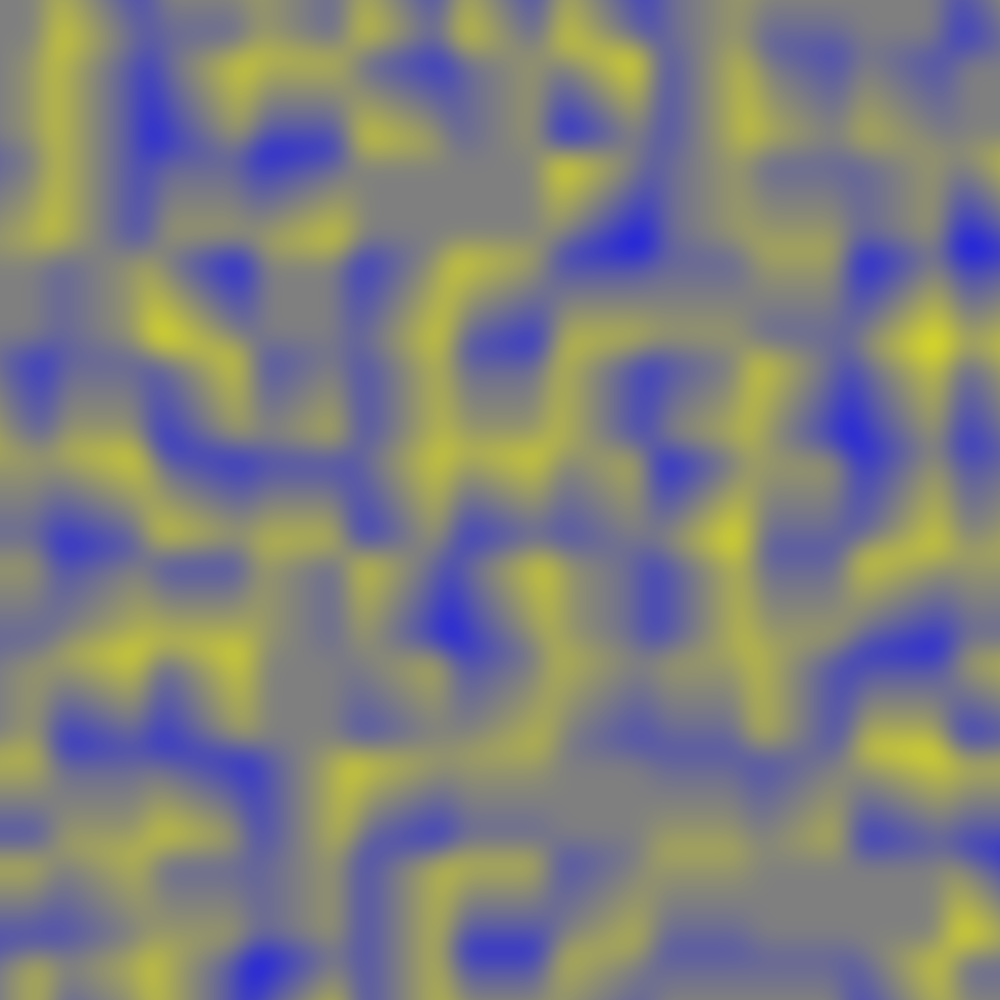
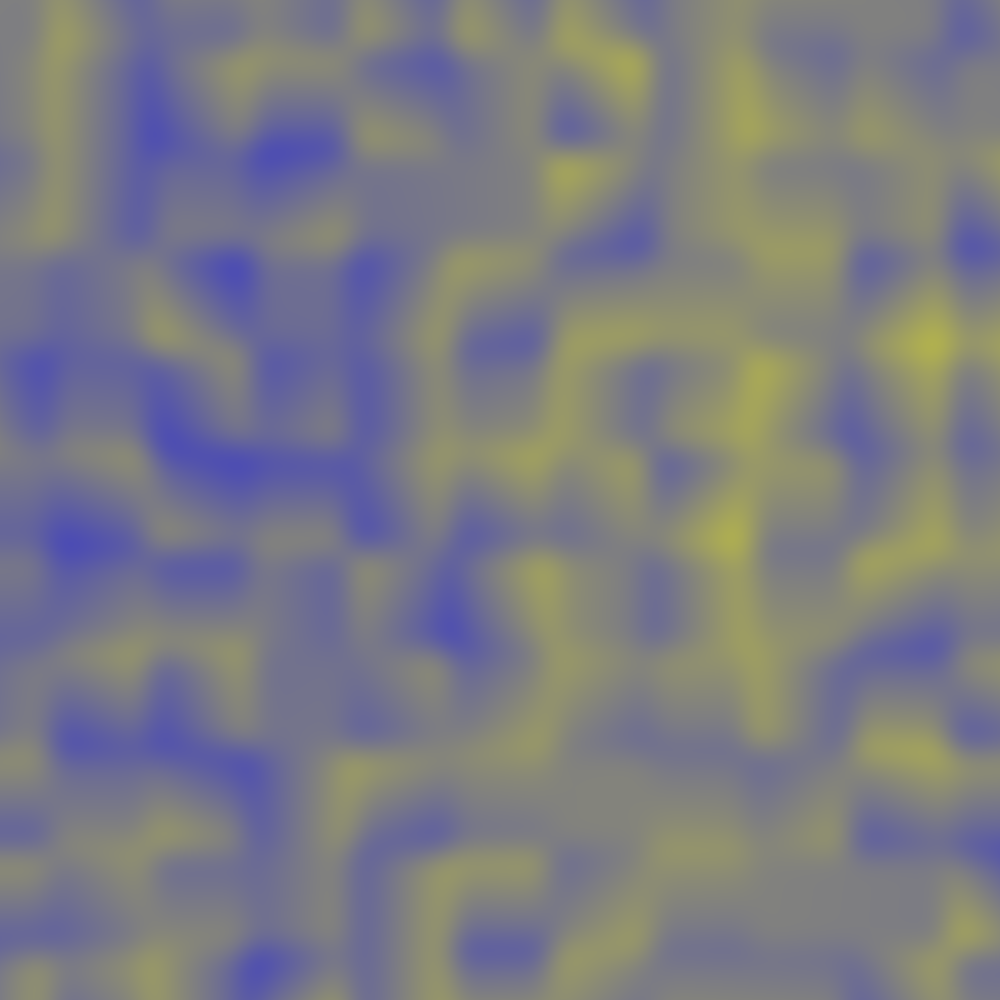
weight start

diff --git a/lib/src/test/java/procedural_generation/LibraryTest.java b/lib/src/test/java/procedural_generation/LibraryTest.java
@@ -9,6 +9,7 @@ import procedural_generation.noise.ComplexNoiseBuilder;
 import procedural_generation.noise.NodeBuilder;
 import procedural_generation.noise.NoiseMapBuilder;
 import procedural_generation.noise.nodes.AddNodeBuilder;
+import procedural_generation.noise.nodes.ChangeLocationNodeBuilder;
 import procedural_generation.noise.nodes.ChangeSeedNodeBuilder;
 import procedural_generation.noise.nodes.Operation;
 
@@ -31,9 +32,31 @@ class LibraryTest {
                         new ChangeSeedNodeBuilder(
                                 Operation.ADD,
                                 1,
-                                new NoiseMapBuilder()
+                                new NoiseMapBuilder(1)
                         ),
-                        new NoiseMapBuilder()
+                        new NoiseMapBuilder(1),
+                        new ChangeLocationNodeBuilder(
+                                new ChangeSeedNodeBuilder(
+                                        Operation.ADD,
+                                        1,
+                                        new NoiseMapBuilder(5)
+                                ),
+                                Operation.DIVIDE,
+                                Operation.DIVIDE,
+                                10,
+                                10
+                        ),
+                        new ChangeLocationNodeBuilder(
+                                new ChangeSeedNodeBuilder(
+                                        Operation.ADD,
+                                        1,
+                                        new NoiseMapBuilder(1)
+                                ),
+                                Operation.DIVIDE,
+                                Operation.DIVIDE,
+                                100,
+                                100
+                        )
                 )
         );
         ComplexNoise complexNoise = complexNoiseBuilder.build(10);

diff --git a/lib/src/main/java/procedural_generation/noise/nodes/AddNode.java b/lib/src/main/java/procedural_generation/noise/nodes/AddNode.java
@@ -14,9 +14,25 @@ public class AddNode implements Node {
     public double getValue(double x, double y) {
         double value = 0;
         for (Node node : nodes) {
-            value += node.getValue(x, y);
+            value += node.getValue(x, y) * node.getWeight();
         }
         // divide by number of nodes to get average
-        return value / nodes.length;
+        double weight = getWeight();
+        if (weight != 0) {
+            value /= weight;
+        } else {
+            value = 0;
+        }
+        return value;
+    }
+
+    @Override
+    public double getWeight() {
+        // weight is the average of the weights of the nodes
+        double weight = 0;
+        for (Node node : nodes) {
+            weight += node.getWeight();
+        }
+        return weight / nodes.length;
     }
 }

diff --git a/lib/src/main/java/procedural_generation/noise/NoiseMap.java b/lib/src/main/java/procedural_generation/noise/NoiseMap.java
@@ -6,18 +6,25 @@ import de.articdive.jnoise.interpolation.Interpolation;
 
 public class NoiseMap implements Node {
     private final JNoise jNoise;
+    private final double weight;
 
-    public NoiseMap(long seed) {
+    public NoiseMap(long seed, double weight) {
         this.jNoise = JNoise.newBuilder().perlin()
                 .setSeed(seed)
                 .setInterpolation(Interpolation.COSINE)
                 .setFadeFunction(FadeFunction.IMPROVED_PERLIN_NOISE)
                 .setFrequency(0.01)
                 .build();
+        this.weight = weight;
     }
 
     @Override
     public double getValue(double x, double y) {
         return jNoise.getNoise(x, y);
+    }
+
+    @Override
+    public double getWeight() {
+        return weight;
     }
 }

diff --git a/lib/src/main/java/procedural_generation/noise/NoiseMapBuilder.java b/lib/src/main/java/procedural_generation/noise/NoiseMapBuilder.java
@@ -1,9 +1,14 @@
 package procedural_generation.noise;
 
 public class NoiseMapBuilder implements NodeBuilder {
+    private final double weight;
+
+    public NoiseMapBuilder(double weight) {
+        this.weight = weight;
+    }
 
     @Override
     public Node build(long seed) {
-        return new NoiseMap(seed);
+        return new NoiseMap(seed, weight);
     }
 }

diff --git a/lib/src/main/java/procedural_generation/noise/nodes/ChangeLocationNode.java b/lib/src/main/java/procedural_generation/noise/nodes/ChangeLocationNode.java
@@ -21,4 +21,9 @@ public class ChangeLocationNode implements Node {
         double newY = operationY.apply(y, valueY);
         return node.getValue(newX, newY);
     }
+
+    @Override
+    public double getWeight() {
+        return node.getWeight();
+    }
 }

diff --git a/lib/src/main/java/procedural_generation/noise/Node.java b/lib/src/main/java/procedural_generation/noise/Node.java
@@ -2,4 +2,5 @@ package procedural_generation.noise;
 
 public interface Node {
     double getValue(double x, double y);
+    double getWeight();
 }
